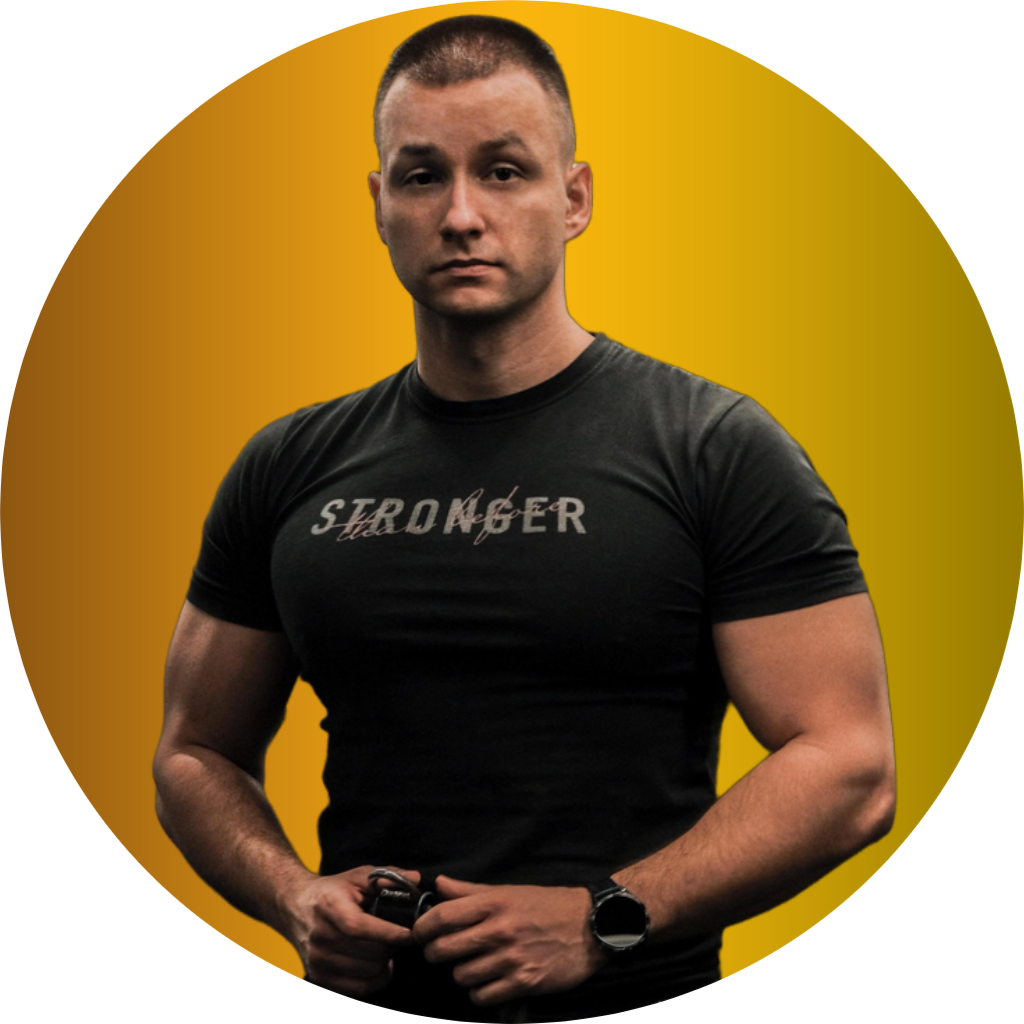
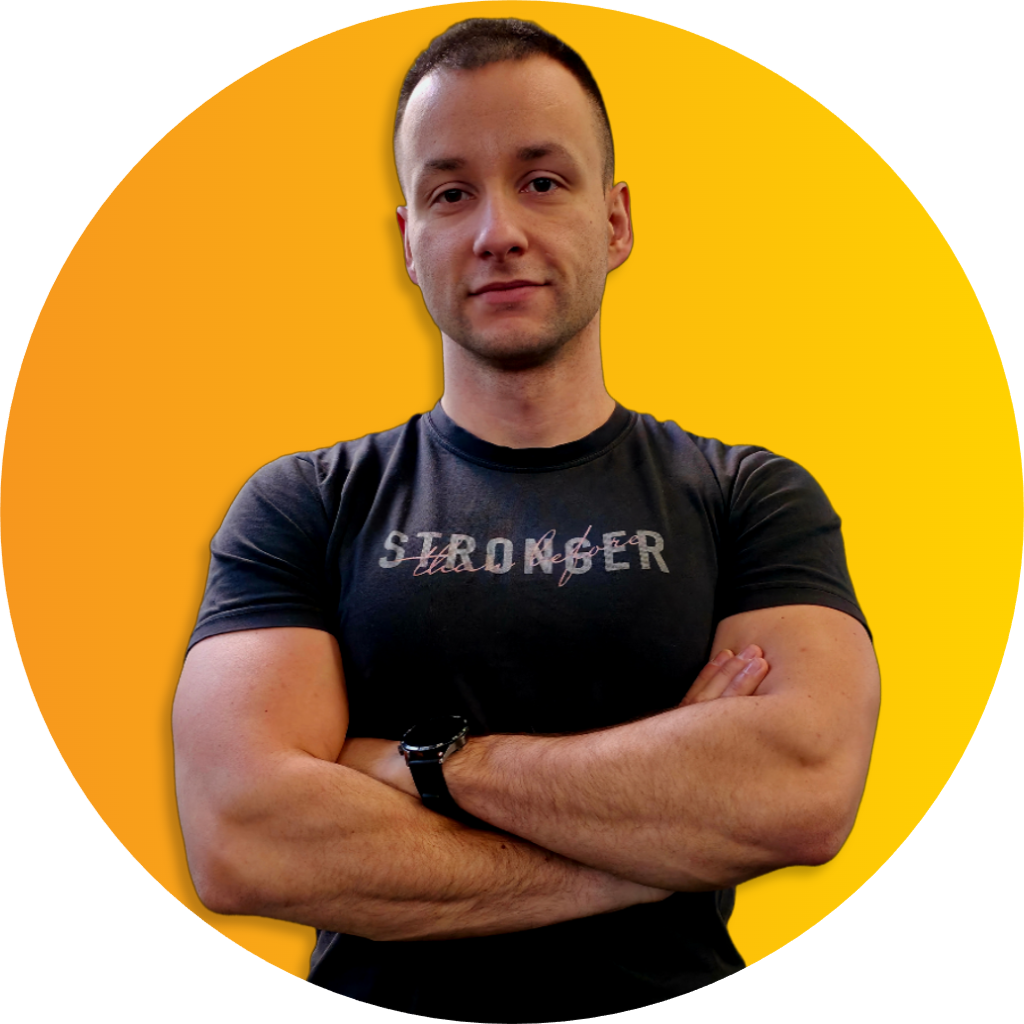
update
dodanie booksy, zmiana zdjecia

diff --git a/index.html b/index.html
@@ -353,6 +353,16 @@
                             </div>
                         </a>
 
+                        <a href="https://trener-krakow.booksy.com/a" target="_blank" class="contact-option pulse-gold">
+                            <div class="contact-icon booksy-icon">
+                                📅
+                            </div>
+                            <div class="contact-text">
+                                <div class="contact-label">Booksy</div>
+                                <div class="contact-info">Zarezerwuj wizytę online</div>
+                            </div>
+                        </a>
+
                         <a href="mailto:twoj@email.com" class="contact-option">
                             <div class="contact-icon email-icon">
                                 ✉

diff --git a/style.css b/style.css
@@ -1439,6 +1439,11 @@ body {
 	color: var(--black);
 }
 
+.booksy-icon {
+	background: var(--gradient-luxury);
+	color: var(--black);
+}
+
 .contact-text {
 	flex: 1;
 	text-align: left;
